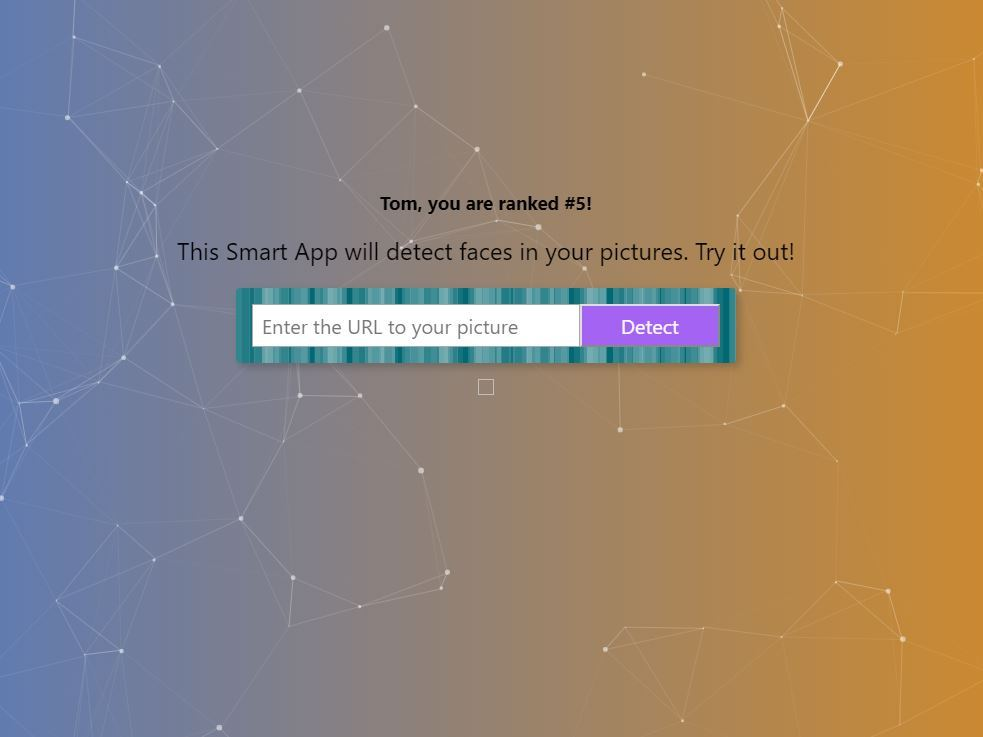
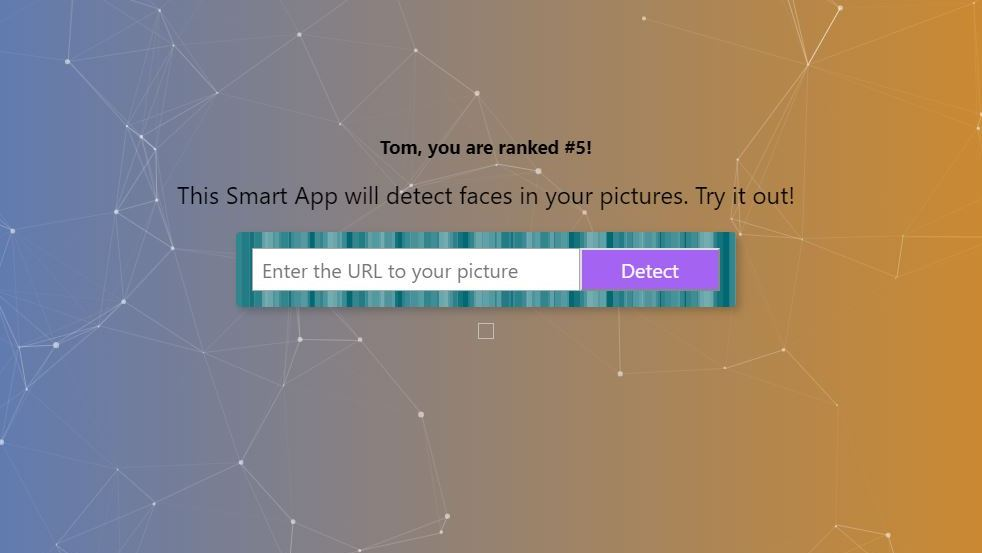
updated css and portfolio links

Changed region(s): [[0.1833, 0.2459, 0.8248, 0.5841], [0.7943, 0.0615, 0.8554, 0.123], [0.1222, 0.2459, 0.1527, 0.2767]]

diff --git a/index.html b/index.html
@@ -5,7 +5,7 @@
     <meta charset="utf-8" />
     <meta content="width=device-width, initial-scale=1.0" name="viewport" />
 
-    <title>Folio - Personal Portfolio Template</title>
+    <title>Amit Ghosh | Web Developer</title>
     <meta content="" name="keywords" />
     <meta content="" name="description" />
 
@@ -51,6 +51,11 @@
             <li><a href="#header" class="smoothScroll">Home</a></li>
             <li><a href="#about" class="smoothScroll">About</a></li>
             <li><a href="#portfolio" class="smoothScroll">Portfolio</a></li>
+            <li>
+              <a href="https://www.amit-ghosh.com/blog" class="smoothScroll"
+                >Blog</a
+              >
+            </li>
           </ul>
         </div>
       </div>
@@ -103,30 +108,30 @@
     <div id="services">
       <div class="container">
         <div class="services-carousel owl-theme">
-          <div class="services-block">
-            <i class="ion-social-html5-outline"></i>
+          <div class="services-block" style="text-align:center">
+            <i class="ion-social-html5-outline" ></i>
 
             <span>HTML5</span>
           </div>
 
-          <div class="services-block">
+          <div class="services-block" style="text-align:center">
             <i class="ion-social-css3-outline"></i>
 
             <span>CSS3</span>
           </div>
 
-          <div class="services-block">
+          <div class="services-block" style="text-align:center">
             <i class="ion-social-javascript-outline"></i>
 
             <span>REACT</span>
           </div>
 
-          <div class="services-block">
+          <div class="services-block" style="text-align:center">
             <i class="ion-social-chrome-outline"></i>
             <span>WEB APPS</span>
           </div>
 
-          <div class="services-block">
+          <div class="services-block" style="text-align:center">
             <i class="ion-wand"></i>
             <span>Responsive Design</span>
           </div>
@@ -152,14 +157,24 @@
               >
                 <a class="popup-img" href="images/portfolio/1.jpg">
                   <img src="images/portfolio/1.jpg" alt="img" />
+                  <a
+                    href="https://amit-ghosh.com/robofriends/"
+                    style="text-align:center;padding: 2px"
+                    ><h6>View Project</h6></a
+                  >
                 </a>
               </div>
 
               <div
                 class="col-lg-4 col-md-6 portfolio-thumbnail all mockups uikits photography"
               >
-                <a class="popup-img" href="images/portfolio/2.jpg">
+                <a class="popup-img" href="images/portfolio/2.jpg"style="max-height: 255px"
+                >
                   <img src="images/portfolio/2.jpg" alt="img" />
+                  <a
+                  href="https://github.com/maverickamit/facedetectionapp"
+                  style="text-align:center;padding: 2px"
+                  ><h6>View Project</h6></a
                 </a>
               </div>
 
@@ -168,6 +183,10 @@
               >
                 <a class="popup-img" href="images/portfolio/3.jpg">
                   <img src="images/portfolio/3.jpg" alt="img" />
+                  <a
+                  href="https://amit-ghosh.com/react-todolist//"
+                  style="text-align:center;padding: 2px"
+                  ><h6>View Project</h6></a
                 </a>
               </div>
             </div>
@@ -204,6 +223,7 @@
           Purchase the pro version with working PHP/AJAX contact form: https://bootstrapmade.com/buy/?theme=Folio
         -->
           Email: amitdgpghosh@gmail.com <br />
+          Click Here for <a href="amit-ghosh.com/blog">my Blog</a>
         </div>
       </div>
     </div>
